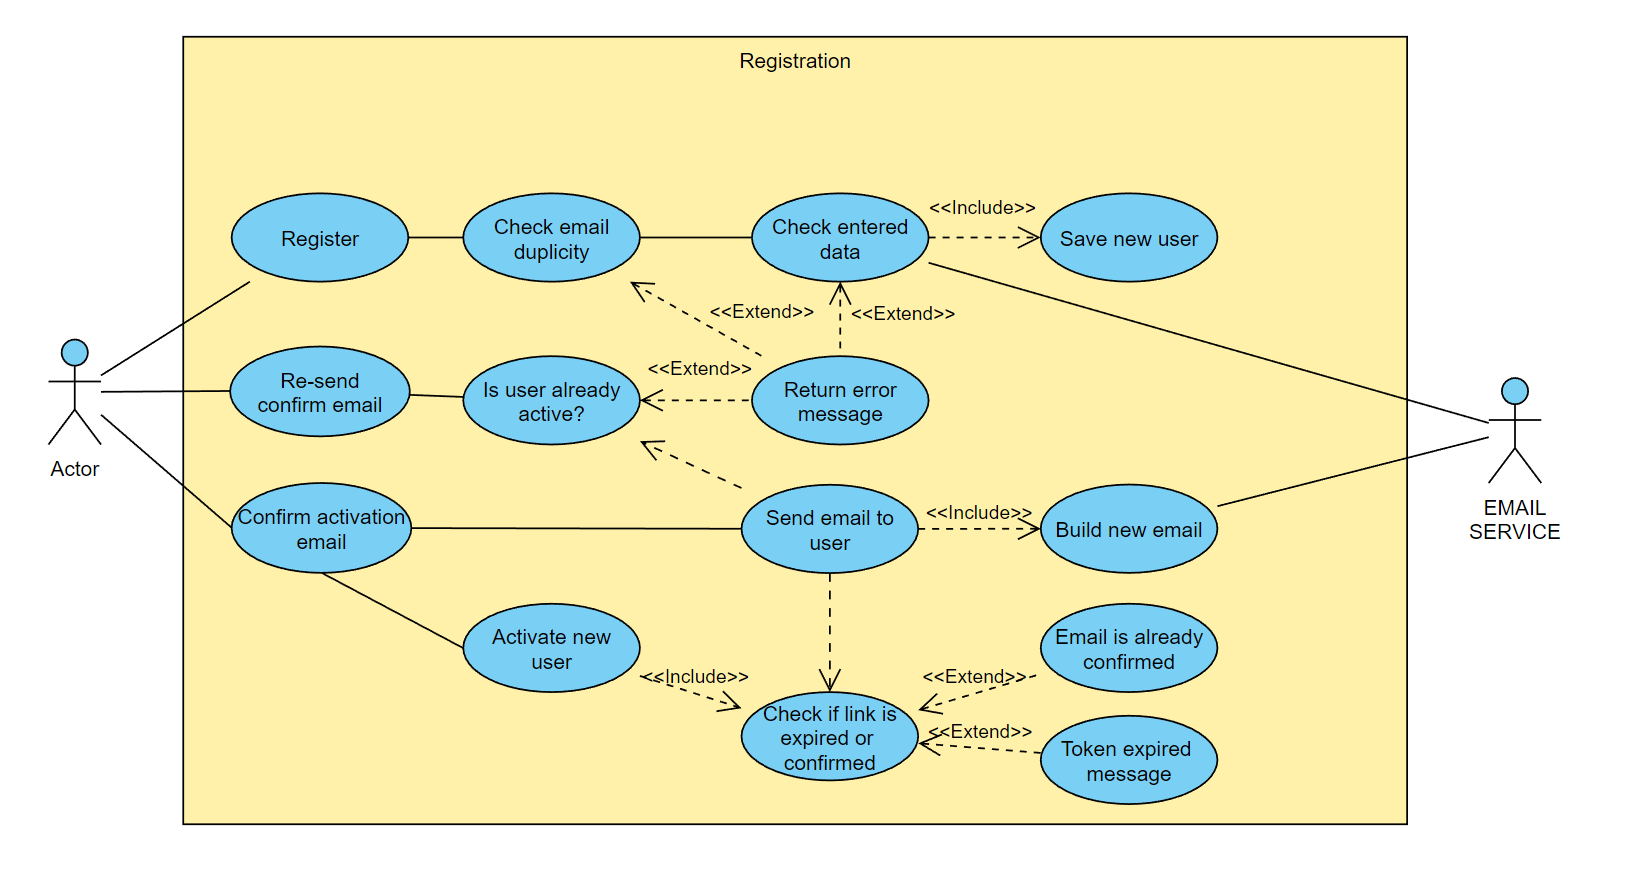
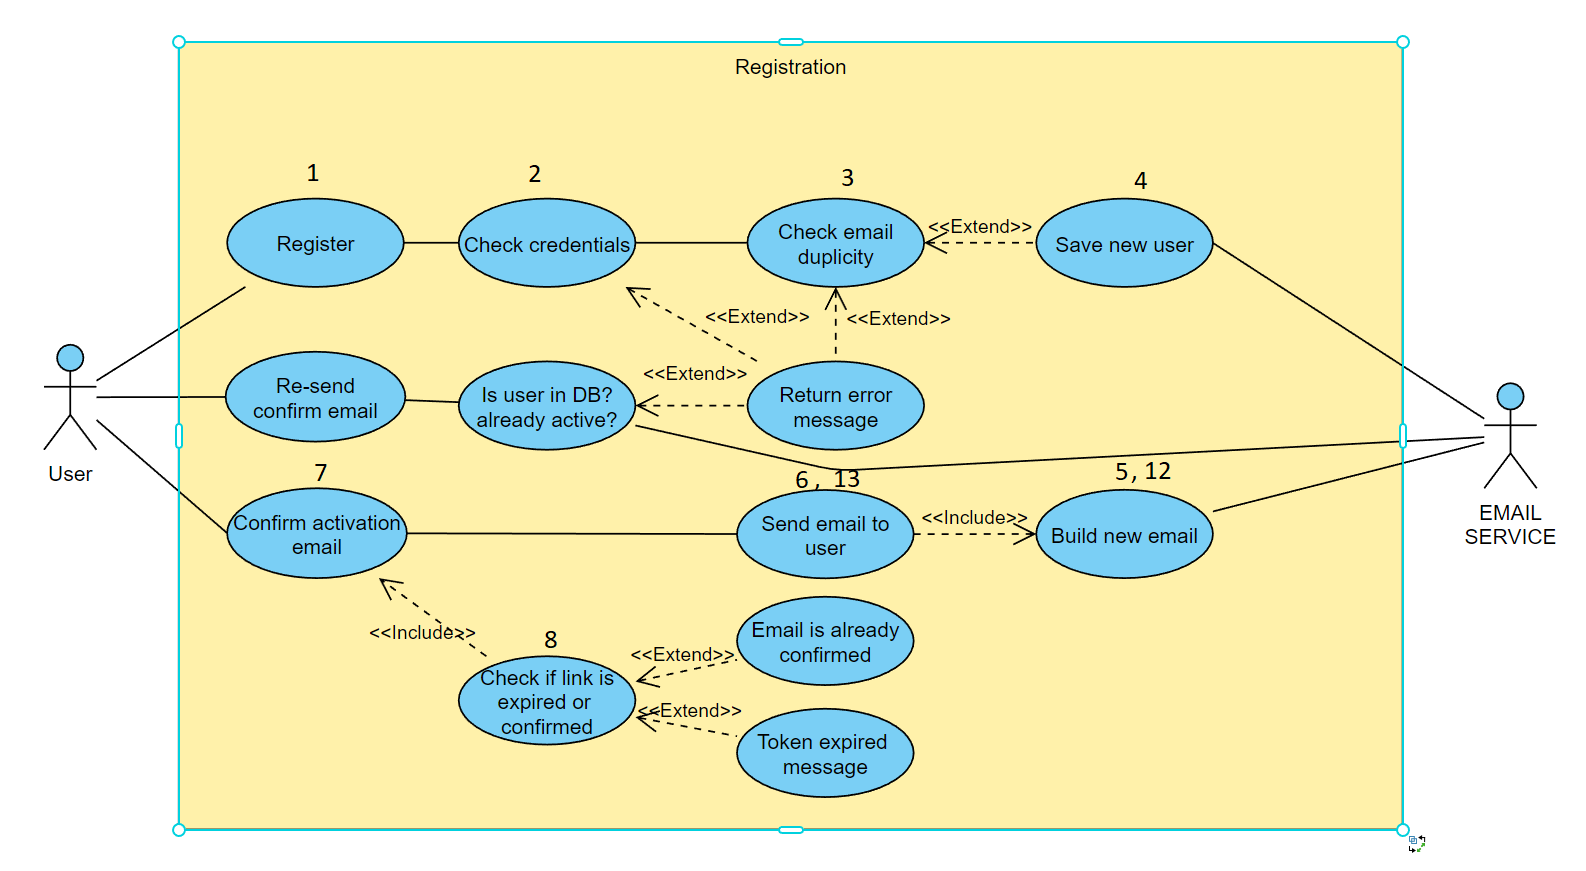
Small rework.

Changed region(s): [[0.0309, 0.031, 0.9887, 0.961], [0.7724, 0.403, 0.8033, 0.434], [0.7106, 0.372, 0.7415, 0.403]]

diff --git a/src/main/java/advent/service/impl/RegisterServiceImpl.java b/src/main/java/advent/service/impl/RegisterServiceImpl.java
@@ -10,7 +10,6 @@ import advent.service.intf.RoleService;
 import advent.validators.Validator;
 import lombok.RequiredArgsConstructor;
 import lombok.extern.slf4j.Slf4j;
-import org.springframework.security.core.userdetails.UsernameNotFoundException;
 import org.springframework.security.crypto.password.PasswordEncoder;
 import org.springframework.stereotype.Service;
 
@@ -31,7 +30,7 @@ public class RegisterServiceImpl {
     private final UserServiceImpl userService;
     private final RoleService roleService;
     private final PasswordEncoder passwordEncoder;
-    private final ConfirmationTokenServiceImpl confirmationTokenServiceImpl;
+    private final ConfirmationTokenServiceImpl confirmationTokenService;
     private final EmailServiceImpl emailService;
 
     /**
@@ -40,16 +39,20 @@ public class RegisterServiceImpl {
      * @return Validated instance or User with full detail
      */
     public UserCreateResDto registerUser(RegistrationReqDto userToRegister) {
-        userToRegister.setFirstName(validator.capitalizeFirstCharacter(userToRegister.getFirstName()));
-        userToRegister.setLastName(validator.capitalizeFirstCharacter(userToRegister.getLastName()));
+        if (!validator.email(userToRegister.getEmail())
+                || !validator.onlyStringWithCapital(userToRegister.getFirstName())
+                || !validator.onlyStringWithCapital(userToRegister.getLastName())
+                || userToRegister.getFirstName().isEmpty()
+                || userToRegister.getLastName().isEmpty()
+                || userToRegister.getEmail().isEmpty()
+                || userToRegister.getPassword().isEmpty())
+            throw stateException("Invalid credentials");
 
         if (userService.findByEmail(userToRegister.getEmail()).isPresent())
-            throw new IllegalStateException("Email already taken");
+            throw stateException("Email already taken");
 
-        if (validator.email(userToRegister.getEmail())
-                && validator.onlyStringWithCapital(userToRegister.getFirstName())
-                && validator.onlyStringWithCapital(userToRegister.getLastName()))
-            throw new IllegalStateException("Invalid credentials");
+        userToRegister.setFirstName(validator.capitalizeFirstCharacter(userToRegister.getFirstName()));
+        userToRegister.setLastName(validator.capitalizeFirstCharacter(userToRegister.getLastName()));
 
         return createRegisterUser( new User(
                 userToRegister.getFirstName(),
@@ -66,16 +69,16 @@ public class RegisterServiceImpl {
      */
     public String confirmTokenWithEmailLink(String token) {
         String userEmail;
-        ConfirmationToken confirmationToken = confirmationTokenServiceImpl.getToken(token);
+        ConfirmationToken confirmationToken = confirmationTokenService.getToken(token);
 
         if (confirmationToken.getConfirmedAt() != null)
-            throw new IllegalStateException("email already confirmed");
+            throw stateException("Email already confirmed!");
 
         LocalDateTime expiredAt = confirmationToken.getExpiresAt();
         if (expiredAt.isBefore(LocalDateTime.now()))
-            throw new IllegalStateException("token expired");
+            throw stateException("Token expired");
 
-        confirmationTokenServiceImpl.setConfirmedAt(token);
+        confirmationTokenService.setConfirmedAt(token);
         userEmail = confirmationToken.getAppUser().getEmail();
         userService.enableUser(userEmail);
 
@@ -91,7 +94,7 @@ public class RegisterServiceImpl {
         User user = userService.getUserByEmail(userEmail);
 
         if(user.getConfirmationTokens().getConfirmedAt() != null || user.isEnabled())
-            throw new UsernameNotFoundException("User has already been verified");
+            throw stateException("User has already been verified");
 
         user.getConfirmationTokens().setExpiresAt(LocalDateTime.now().plusMinutes(30));
         emailService.sendEmail(user.getEmail(), user.getConfirmationTokens().getToken());
@@ -106,16 +109,15 @@ public class RegisterServiceImpl {
      */
     private UserCreateResDto createRegisterUser(User user) {
         String encodedPassword = passwordEncoder.encode(user.getPassword());
+
         user.setFirstAddress(new Address());
         user.setSecondAddress(new Address());
         user.setPassword(encodedPassword);
+        user.getRoles().add(roleService.findByName("ROLE_USER"));
+
         User createdUser = userService.saveNewUser(user);
-
-        Role role = roleService.findByName("ROLE_ADMIN");
-        user.getRoles().add(role);
-
         String confirmToken = createConfirmToken(user);
-        emailService.sendEmail(user.getEmail(), confirmToken);
+        //emailService.sendEmail(user.getEmail(), confirmToken);
 
         return new UserCreateResDto(createdUser.getId(), createdUser.getEmail());
     }
@@ -133,7 +135,16 @@ public class RegisterServiceImpl {
                 LocalDateTime.now().plusMinutes(15),
                 user
         );
-        confirmationTokenServiceImpl.saveConfirmationToken(confirmationToken);
+        confirmationTokenService.saveConfirmationToken(confirmationToken);
         return token;
+    }
+
+    /**
+     * Error message with custom message
+     * @param aMessage - Message
+     * @return
+     */
+    private IllegalStateException stateException (String aMessage) {
+        return new IllegalStateException(aMessage);
     }
 }

diff --git a/src/main/java/advent/service/impl/AdsServiceImpl.java b/src/main/java/advent/service/impl/AdsServiceImpl.java
@@ -30,7 +30,6 @@ import javax.transaction.Transactional;
 @RequiredArgsConstructor
 @Slf4j
 public class AdsServiceImpl implements AdsService{
-
     private final AdsRepository adsRepository;
     private final CategoryService categoryService;
     private final UserRepository userRepository;
@@ -87,14 +86,14 @@ public class AdsServiceImpl implements AdsService{
     @Override
     public AdsDetailResDto get(Long adsId) {
         return  mapper.adsToAdsDetailResDto(adsRepository.findById(adsId)
-                .orElseThrow(() -> new EntityNotFoundException("Advertisement " + adsId + " not found")));
+                .orElseThrow(() -> notFoundMessage(adsId)));
     }
 
     @Override
     @Transactional
     public AdsDeleteResDto delete(Long adsId) {
         Ads ads = adsRepository.findById(adsId)
-                .orElseThrow(() -> new EntityNotFoundException("Advertisement " + adsId + " not found"));
+                .orElseThrow(() -> notFoundMessage(adsId));
 
         adsRepository.deleteById(ads.getId());
         return mapper.adsDeleteResDto(ads);
@@ -104,7 +103,7 @@ public class AdsServiceImpl implements AdsService{
     @Transactional
     public Ads edit(Long entityId, Ads ads) {
         Ads adsToUpdate = adsRepository.findById(entityId)
-                .orElseThrow(() -> new EntityNotFoundException("Advertisement " + entityId + " not found"));
+                .orElseThrow(() -> notFoundMessage(entityId));
 
         adsToUpdate.setName(ads.getName());
         adsToUpdate.setDescription(ads.getDescription());
@@ -116,10 +115,10 @@ public class AdsServiceImpl implements AdsService{
     @Transactional
     public Ads changeCategory(String categoryName, Long adsId) {
         Ads ads = adsRepository.findById(adsId)
-                .orElseThrow(() -> new EntityNotFoundException("Advertisement " + adsId + " not found"));
+                .orElseThrow(() -> notFoundMessage(adsId));
 
         Category category = categoryService.findByName(categoryName)
-                .orElseThrow(() -> new EntityNotFoundException("Category " + adsId + " not found"));
+                .orElseThrow(() -> notFoundMessage(adsId));
         ads.setCategory(category);
 
         return adsRepository.save(ads);
@@ -128,7 +127,7 @@ public class AdsServiceImpl implements AdsService{
     @Transactional
     public Ads addBenefit(Long benefitId, Long adsId) {
         Ads ads = adsRepository.findById(adsId)
-                .orElseThrow(() -> new EntityNotFoundException("Advertisement " + adsId + " not found"));
+                .orElseThrow(() -> notFoundMessage(adsId));
 
         Benefit benefit = benefitService.get(benefitId);
         ads.addBenefit(benefit);
@@ -139,7 +138,7 @@ public class AdsServiceImpl implements AdsService{
     @Transactional
     public Ads removeBenefit(Long benefitId, Long adsId) {
         Ads ads = adsRepository.findById(adsId)
-                .orElseThrow(() -> new EntityNotFoundException("Advertisement " + adsId + " not found"));
+                .orElseThrow(() -> notFoundMessage(adsId));
 
         Benefit benefit = benefitService.get(benefitId);
         ads.removeBenefit(benefit);
@@ -151,11 +150,20 @@ public class AdsServiceImpl implements AdsService{
     @Transactional
     public AdsResponse responseToAds(Long adsId, AdsResponse adsResponse) {
         Ads ads = adsRepository.findById(adsId)
-                .orElseThrow(() -> new EntityNotFoundException("Advertisement " + adsId + " not found"));
+                .orElseThrow(() -> notFoundMessage(adsId));
 
         ads.getResponse().add(adsResponse);
         adsRepository.save(ads);
         return adsResponse;
+    }
+
+    /**
+     * Not found entity message.
+     * @param aId - Record ID
+     * @return - EntityNotFoundException with message and record ID
+     */
+    private EntityNotFoundException notFoundMessage(Long aId) {
+        return new EntityNotFoundException("Advertisement " + aId + " not found");
     }
 /*
     @Override

diff --git a/src/main/java/advent/configuration/InitDataConfiguration.java b/src/main/java/advent/configuration/InitDataConfiguration.java
@@ -50,11 +50,11 @@ public class InitDataConfiguration {
             globalInfoMessageService.addNew(new GlobalInfoMessageDto("Moon fall"));
             ///////////////////////////////////////////////////////////
 
-            registerService.registerUser(new RegistrationReqDto("Pepa", "Zdepa", "1neco@neco.cz", "neco"));
-            registerService.registerUser(new RegistrationReqDto("Pepa", "Zdepa", "2neco@neco.cz", "neco"));
-            registerService.registerUser(new RegistrationReqDto("Pepa", "Zdepa", "3neco@neco.cz", "neco"));
-            registerService.registerUser(new RegistrationReqDto("Pepa", "Zdepa", "4neco@neco.cz", "neco"));
-            registerService.registerUser(new RegistrationReqDto("Pepa", "Zdepa", "lolburhehe@seznam.cz", "neco"));
+            registerService.registerUser(new RegistrationReqDto("Pepa", "Zdepa", "1neco@neco.cz", "neco1"));
+            registerService.registerUser(new RegistrationReqDto("Pepa", "Zdepa", "2neco@neco.cz", "neco1"));
+            registerService.registerUser(new RegistrationReqDto("Pepa", "Zdepa", "3neco@neco.cz", "neco1"));
+            registerService.registerUser(new RegistrationReqDto("Pepa", "Zdepa", "4neco@neco.cz", "neco1"));
+            registerService.registerUser(new RegistrationReqDto("Pepa", "Zdepa", "lolburhehe@seznam.cz", "neco1"));
 
             userService.addRoleToUse("1neco@neco.cz", "ROLE_USER");
             userService.addRoleToUse("3neco@neco.cz", "ROLE_ADMIN");

diff --git a/src/main/java/advent/service/impl/UserServiceImpl.java b/src/main/java/advent/service/impl/UserServiceImpl.java
@@ -55,6 +55,11 @@ public class UserServiceImpl implements /*UserService,*/ UserDetailsService {
 		return userBanUnban(userId, false);
 	}
 
+	/**
+	 * Add new user to database.
+	 * @param user - User to save
+	 * @return - Saved user
+	 */
 	public User saveNewUser(User user) {
 		return userRepo.save(user);
 	}
@@ -153,6 +158,11 @@ public class UserServiceImpl implements /*UserService,*/ UserDetailsService {
 		return user;
 	}
 
+	/**
+	 * Find user by his ID.
+	 * @param id - User id
+	 * @return - user entity
+	 */
 	public User findById(Long id) {
 		return userRepo.findById(id).orElseThrow(() -> new UsernameNotFoundException("user not found"));
 	}

diff --git a/src/main/java/advent/dto/requestDto/RegistrationReqDto.java b/src/main/java/advent/dto/requestDto/RegistrationReqDto.java
@@ -1,6 +1,10 @@
 package advent.dto.requestDto;
 
 import lombok.*;
+import org.hibernate.validator.constraints.Length;
+
+import javax.validation.constraints.Email;
+import javax.validation.constraints.NotEmpty;
 
 @Getter
 @AllArgsConstructor
@@ -9,8 +13,16 @@ import lombok.*;
 @ToString
 @Data
 public class RegistrationReqDto {
+    @NotEmpty
+    @Length(min = 2, max = 20)
     private String firstName;
+    @NotEmpty
+    @Length(min = 2, max = 20)
     private String lastName;
+    @Email
+    @Length(min = 5, max = 50)
     private String email;
+    @NotEmpty
+    @Length(min = 5, max = 50)
     private String password;
 }

diff --git a/src/main/java/advent/service/impl/EmailServiceImpl.java b/src/main/java/advent/service/impl/EmailServiceImpl.java
@@ -28,7 +28,7 @@ public class EmailServiceImpl {
 
         // Email setting
         String host = "smtp.gmail.com";
-        String from = "";
+        String from = "testemail@neco.neco";
         Properties properties = System.getProperties();
         properties.put("mail.smtp.host", host);
         properties.put("mail.smtp.port", "465");

diff --git a/src/main/java/advent/cons/GeneralCons.java b/src/main/java/advent/cons/GeneralCons.java
@@ -3,7 +3,7 @@ package advent.cons;
 import java.math.BigDecimal;
 
 /**
- * Generaly used values like page size, default page and regex patterns for validation
+ * Generally used values like page size, default page and regex patterns for validation
  */
 public final class GeneralCons {
 
